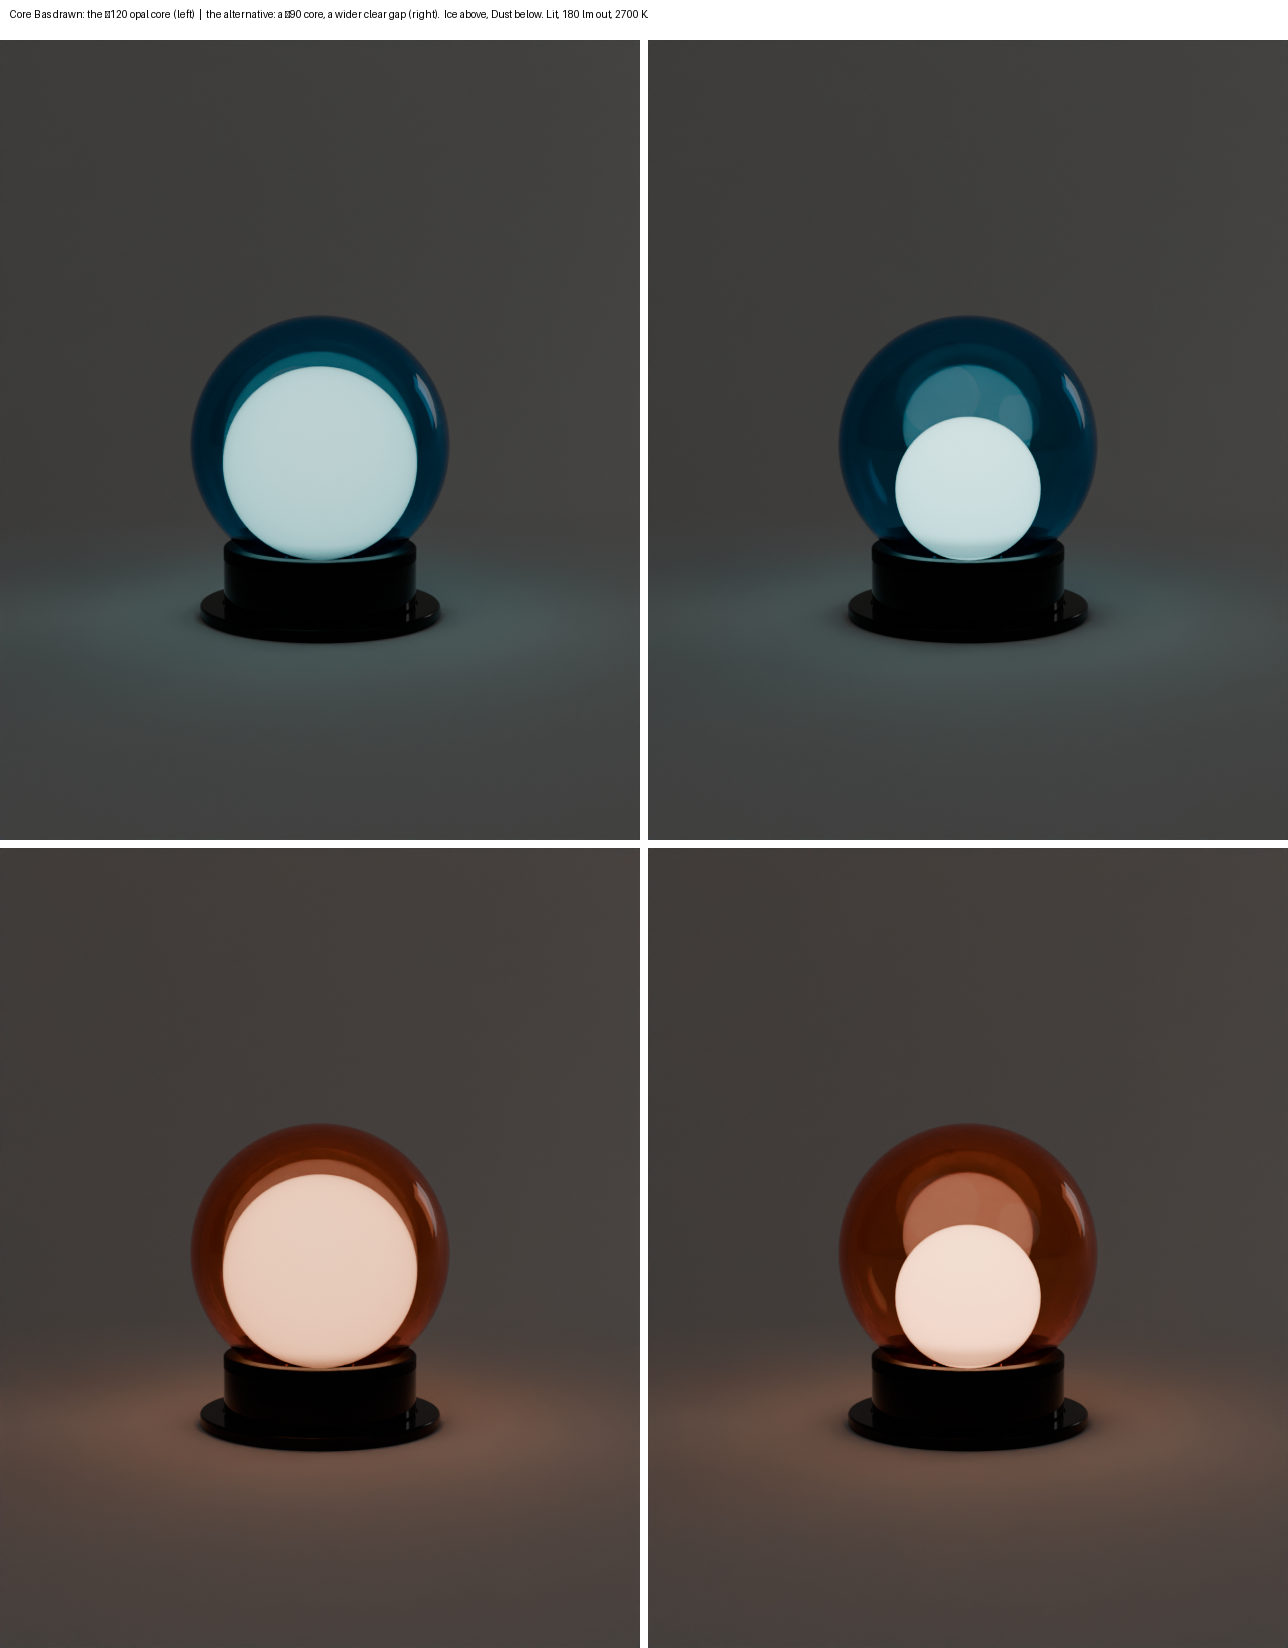
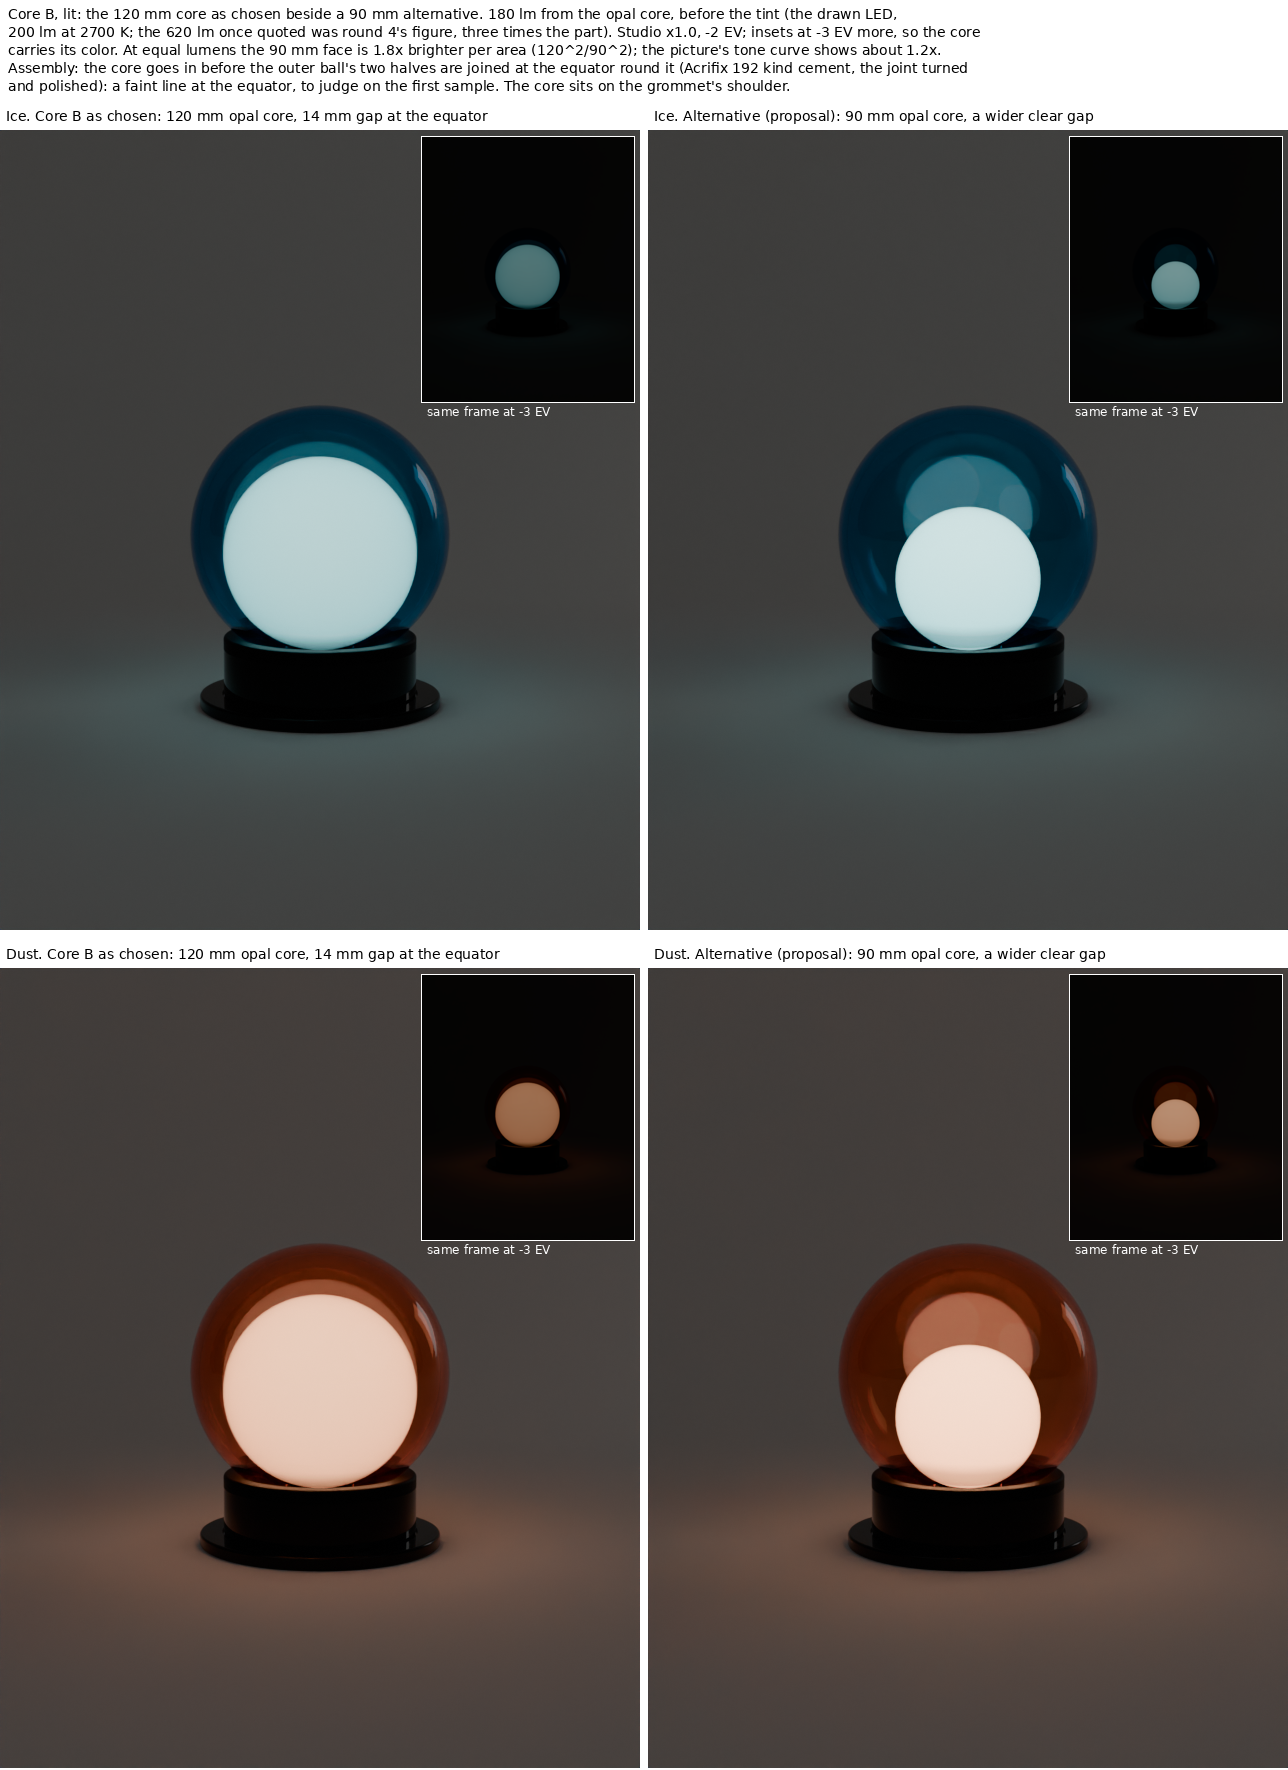
Core B decision sheet, the gate's captions: 120 mm / 90 mm spelled out, each panel labeled (B as chosen, the 90 mm as a proposal), 180 lm from the core before the tint reconciled with round 4's 620 lm, the 1.8x-per-area line, the assembly from the CAD (the halves joined at the equator round the core
Claude-Session: https://claude.ai/code/session_01VCPNDaozJgar2mVTSvis3A

diff --git a/spinoffs/barkhorn/companions/lamp_site.py b/spinoffs/barkhorn/companions/lamp_site.py
@@ -206,16 +206,28 @@ def build(frame, samples, scale):
             # PROPOSAL (2026-11-09, for the owner): a ring of mid-power LEDs, 2700 K, on a band round the hub's outside
             # (r 32, z 64 to 72 above the rim), facing out onto the opal liner's inside: the glow's own light, a real
             # part (in the CAD it would be a flex board on the hub, its driver beside the COB's)
-            bm = bmesh.new(); r_, z0r, z1r, n = 0.032, 0.064, 0.072, 64
-            vs = [(bm.verts.new((r_ * math.cos(2 * math.pi * i / n), r_ * math.sin(2 * math.pi * i / n), z0r)),
-                   bm.verts.new((r_ * math.cos(2 * math.pi * i / n), r_ * math.sin(2 * math.pi * i / n), z1r))) for i in range(n)]
-            for i in range(n):
-                a_, b_ = vs[i], vs[(i + 1) % n]
-                bm.faces.new((a_[0], b_[0], b_[1], a_[1]))
+            bm = bmesh.new(); r_, z0r, z1r = 0.032, 0.064, 0.072
+            nled = int(os.environ.get('RING_N', '24'))   # discrete LEDs (2835 class, 2.8 x 3.5 mm), even pitch
+            if nled > 0:
+                # each LED a small emitting face on the band (its light-emitting area), facing out; the band itself
+                # a white board between them (not emitting)
+                for i in range(nled):
+                    a0 = 2 * math.pi * i / nled; hw = 0.0014 / r_
+                    p_ = [bm.verts.new(((r_ + 0.0005) * math.cos(a0 + sa * hw), (r_ + 0.0005) * math.sin(a0 + sa * hw), 0.068 + sz * 0.00175))
+                          for sa, sz in ((-1, -1), (1, -1), (1, 1), (-1, 1))]
+                    bm.faces.new(p_)
+                area = nled * 0.0028 * 0.0035
+            else:
+                n = 64
+                vs = [(bm.verts.new((r_ * math.cos(2 * math.pi * i / n), r_ * math.sin(2 * math.pi * i / n), z0r)),
+                       bm.verts.new((r_ * math.cos(2 * math.pi * i / n), r_ * math.sin(2 * math.pi * i / n), z1r))) for i in range(n)]
+                for i in range(n):
+                    a_, b_ = vs[i], vs[(i + 1) % n]
+                    bm.faces.new((a_[0], b_[0], b_[1], a_[1]))
+                area = 2 * math.pi * r_ * (z1r - z0r)
             bmesh.ops.recalc_face_normals(bm, faces=bm.faces)
             me = bpy.data.meshes.new(f'ring-led-{tint}'); bm.to_mesh(me); bm.free()
             ro = bpy.data.objects.new(f'ring-led-{tint}', me); bpy.context.scene.collection.objects.link(ro); ro.location = c
-            area = 2 * math.pi * r_ * (z1r - z0r)
             em = bpy.data.materials.new(f'ring-led-em-{tint}'); em.use_nodes = True
             bsdf = em.node_tree.nodes['Principled BSDF']; bsdf.inputs['Base Color'].default_value = (0.9, 0.9, 0.88, 1)
             bsdf.inputs['Emission Color'].default_value = (*bb, 1); bsdf.inputs['Emission Strength'].default_value = rl * WLM / area
@@ -335,6 +347,10 @@ def build(frame, samples, scale):
     if kick:
         kick.data.color = blackbody(3000)
         kick.rotation_euler = (Vector((0, 0, 0.05 if kind0 == 'orb' else 0.62)) - kick.location).to_track_quat('-Z', 'Y').to_euler()
+
+    for nm_ in os.environ.get('LIGHTS_OFF', '').split(','):      # a probe: a studio light switched off
+        if nm_ and nm_ in bpy.data.objects:
+            bpy.data.objects.remove(bpy.data.objects[nm_], do_unlink=True)
 
     # --- the frames ---------------------------------------------------------------------------------------------
     kind, _, tint = frame.partition('-')
